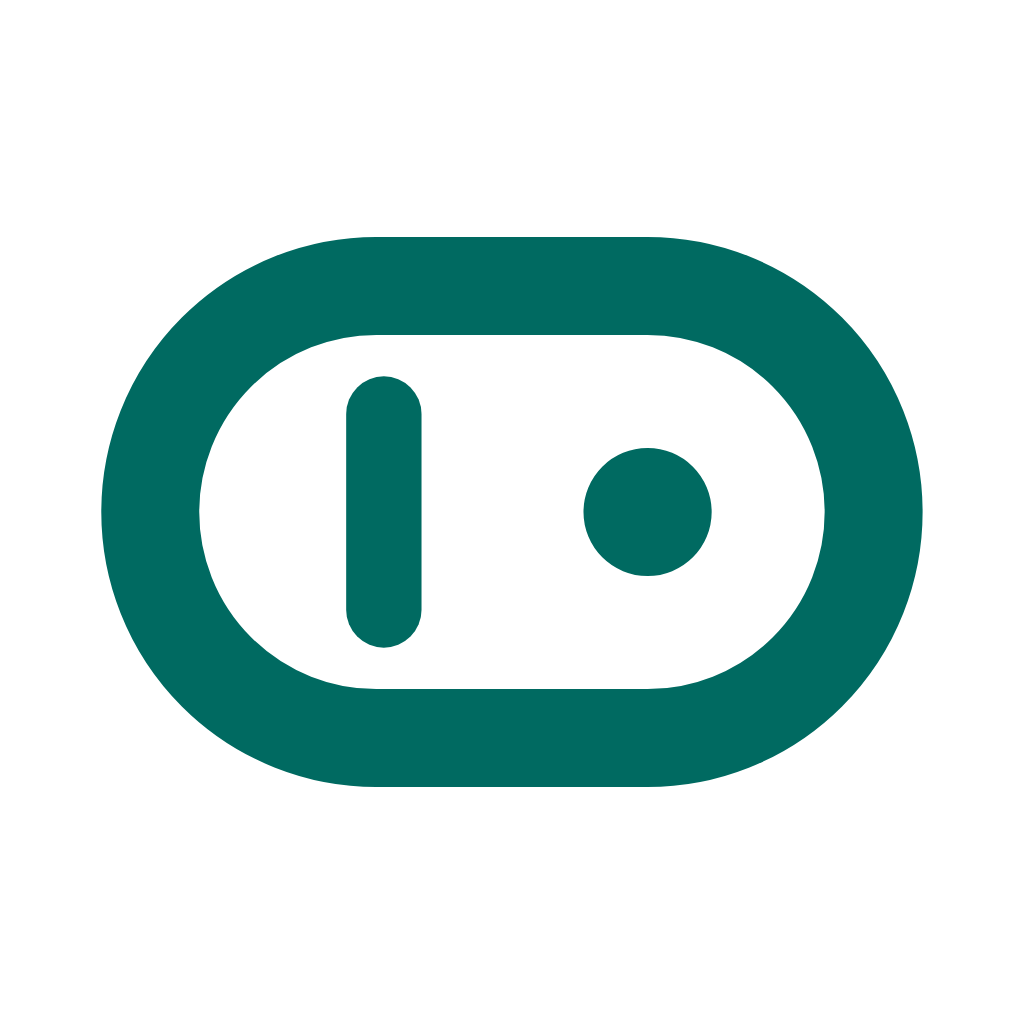
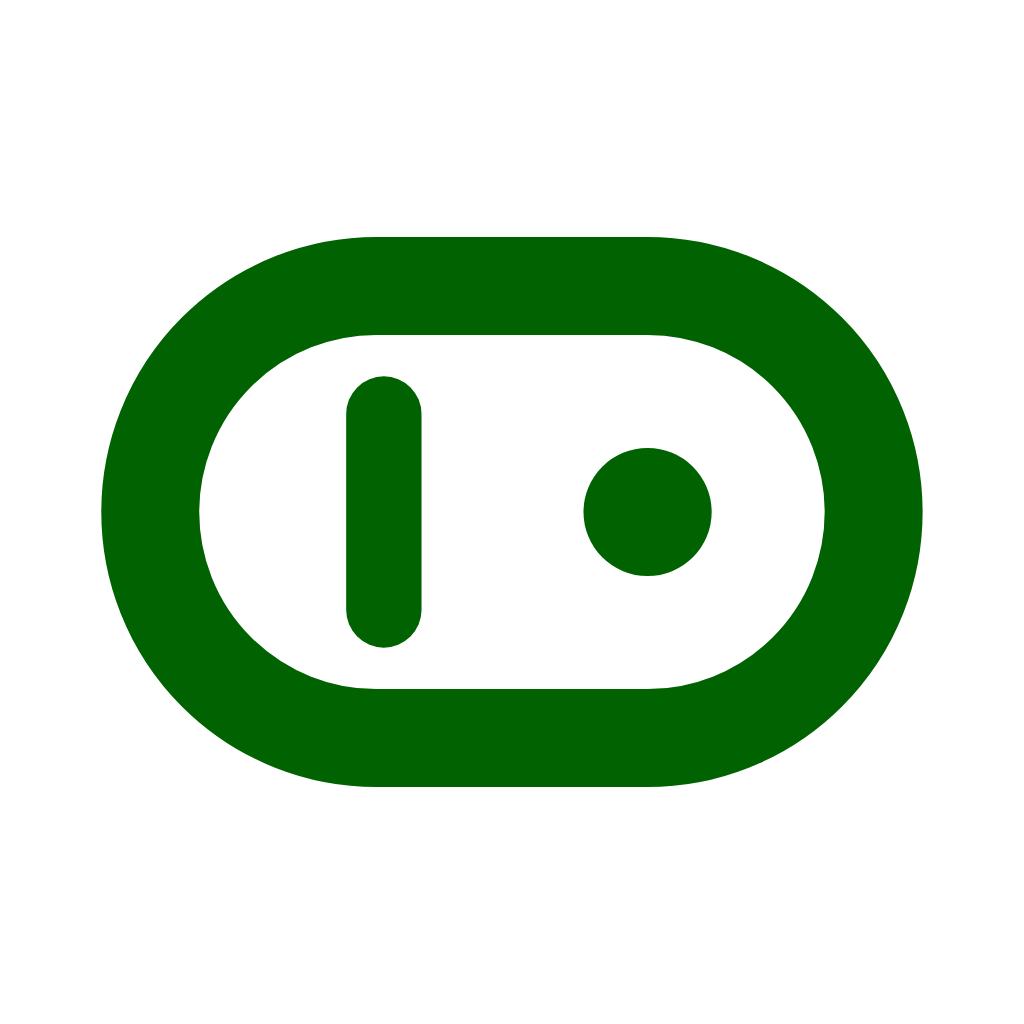
[qoder] OneBar 0.1.0: основной цвет #006200 и исправления брендовых экспортов
Перевёл палитру, виджет, иконку запуска и brand-материалы на #006200.
Сохранил teal-600 и монохромные варианты, дополнил отсутствующие PNG.
Убрал белые углы Play-иконки, привязал стартовое окно к палитре и убрал цветовой хардкод бейджей.

Проверки: testDebugUnitTest, assembleDebug, lintDebug — успешно.

Changed region(s): [[0.0938, 0.2188, 0.9062, 0.7812], [0.5625, 0.4375, 0.7188, 0.5625]]

diff --git a/app/src/main/kotlin/dev/onebar/app/ui/theme/Color.kt b/app/src/main/kotlin/dev/onebar/app/ui/theme/Color.kt
@@ -18,90 +18,96 @@ package dev.onebar.app.ui.theme
 
 import androidx.compose.ui.graphics.Color
 
-// Основная палитра OneBar: seed Tailwind teal-600 #0D9488, разложенный по ролям Material 3
-// (схема Tonal Spot, HCT). Значения подобраны не на глаз — они пересчитаны
-// @material/material-color-utilities: brand тон 40 даёт primary в светлой теме, тон 80 в
-// тёмной, нейтрали (chroma 6) и neutralVariant (chroma 14) подмешаны в surface и outline,
-// поэтому весь UI держит WCAG AA (primary/surface 6.18, текст 16.31, вторичный 8.87).
-// Правильно менять seed и пересчитывать роли целиком, а не отдельный цвет.
+// Основная палитра OneBar: seed Green #006200, разложенный по ролям Material 3
+// (схема Tonal Spot, HCT). Точный #006200 закреплён за primary светлой темы, inversePrimary
+// тёмной и фоном знака: у него HCT-тон ~35.47, а не стандартные 40. Остальные роли пересчитаны
+// @material/material-color-utilities из того же seed; нейтрали (chroma 6) и neutralVariant
+// (chroma 14) подмешаны в surface и outline. Менять seed и пересчитывать роли целиком.
 
 // Светлая тема
 
-val primaryLight = Color(0xFF006A61)
+val primaryLight = Color(0xFF006200)
 val onPrimaryLight = Color(0xFFFFFFFF)
-val primaryContainerLight = Color(0xFF9EF2E6)
-val onPrimaryContainerLight = Color(0xFF005049)
-val secondaryLight = Color(0xFF4A635F)
+val primaryContainerLight = Color(0xFFC0EFB0)
+val onPrimaryContainerLight = Color(0xFF285020)
+val secondaryLight = Color(0xFF54634D)
 val onSecondaryLight = Color(0xFFFFFFFF)
-val secondaryContainerLight = Color(0xFFCCE8E3)
-val onSecondaryContainerLight = Color(0xFF324B48)
-val tertiaryLight = Color(0xFF46617A)
+val secondaryContainerLight = Color(0xFFD7E8CD)
+val onSecondaryContainerLight = Color(0xFF3C4B37)
+val tertiaryLight = Color(0xFF386568)
 val onTertiaryLight = Color(0xFFFFFFFF)
-val tertiaryContainerLight = Color(0xFFCDE5FF)
-val onTertiaryContainerLight = Color(0xFF2E4961)
+val tertiaryContainerLight = Color(0xFFBCEBEE)
+val onTertiaryContainerLight = Color(0xFF1E4D50)
 val errorLight = Color(0xFFBA1A1A)
 val onErrorLight = Color(0xFFFFFFFF)
 val errorContainerLight = Color(0xFFFFDAD6)
 val onErrorContainerLight = Color(0xFF93000A)
-val backgroundLight = Color(0xFFF4FBF8)
-val onBackgroundLight = Color(0xFF161D1C)
-val surfaceLight = Color(0xFFF4FBF8)
-val onSurfaceLight = Color(0xFF161D1C)
-val surfaceVariantLight = Color(0xFFDAE5E2)
-val onSurfaceVariantLight = Color(0xFF3F4947)
-val outlineLight = Color(0xFF6F7977)
-val outlineVariantLight = Color(0xFFBEC9C6)
+val backgroundLight = Color(0xFFF8FBF1)
+val onBackgroundLight = Color(0xFF191D17)
+val surfaceLight = Color(0xFFF8FBF1)
+val onSurfaceLight = Color(0xFF191D17)
+val surfaceVariantLight = Color(0xFFDFE4D7)
+val onSurfaceVariantLight = Color(0xFF43483F)
+val outlineLight = Color(0xFF73796E)
+val outlineVariantLight = Color(0xFFC3C8BC)
 val scrimLight = Color(0xFF000000)
-val inverseSurfaceLight = Color(0xFF2B3230)
-val inverseOnSurfaceLight = Color(0xFFECF2F0)
-val inversePrimaryLight = Color(0xFF82D5CA)
-val surfaceDimLight = Color(0xFFD5DBD9)
-val surfaceBrightLight = Color(0xFFF4FBF8)
+val inverseSurfaceLight = Color(0xFF2E322B)
+val inverseOnSurfaceLight = Color(0xFFEFF2E8)
+val inversePrimaryLight = Color(0xFFA5D396)
+val surfaceDimLight = Color(0xFFD8DBD2)
+val surfaceBrightLight = Color(0xFFF8FBF1)
 val surfaceContainerLowestLight = Color(0xFFFFFFFF)
-val surfaceContainerLowLight = Color(0xFFEFF5F2)
-val surfaceContainerLight = Color(0xFFE9EFED)
-val surfaceContainerHighLight = Color(0xFFE3EAE7)
-val surfaceContainerHighestLight = Color(0xFFDDE4E1)
+val surfaceContainerLowLight = Color(0xFFF2F5EB)
+val surfaceContainerLight = Color(0xFFECEFE5)
+val surfaceContainerHighLight = Color(0xFFE6E9E0)
+val surfaceContainerHighestLight = Color(0xFFE1E4DA)
 
 // Тёмная тема
 
-val primaryDark = Color(0xFF82D5CA)
-val onPrimaryDark = Color(0xFF003732)
-val primaryContainerDark = Color(0xFF005049)
-val onPrimaryContainerDark = Color(0xFF9EF2E6)
-val secondaryDark = Color(0xFFB1CCC7)
-val onSecondaryDark = Color(0xFF1C3531)
-val secondaryContainerDark = Color(0xFF324B48)
-val onSecondaryContainerDark = Color(0xFFCCE8E3)
-val tertiaryDark = Color(0xFFAECAE6)
-val onTertiaryDark = Color(0xFF163349)
-val tertiaryContainerDark = Color(0xFF2E4961)
-val onTertiaryContainerDark = Color(0xFFCDE5FF)
+val primaryDark = Color(0xFFA5D396)
+val onPrimaryDark = Color(0xFF11380B)
+val primaryContainerDark = Color(0xFF285020)
+val onPrimaryContainerDark = Color(0xFFC0EFB0)
+val secondaryDark = Color(0xFFBBCBB2)
+val onSecondaryDark = Color(0xFF263422)
+val secondaryContainerDark = Color(0xFF3C4B37)
+val onSecondaryContainerDark = Color(0xFFD7E8CD)
+val tertiaryDark = Color(0xFFA0CFD2)
+val onTertiaryDark = Color(0xFF003739)
+val tertiaryContainerDark = Color(0xFF1E4D50)
+val onTertiaryContainerDark = Color(0xFFBCEBEE)
 val errorDark = Color(0xFFFFB4AB)
 val onErrorDark = Color(0xFF690005)
 val errorContainerDark = Color(0xFF93000A)
 val onErrorContainerDark = Color(0xFFFFDAD6)
-val backgroundDark = Color(0xFF0E1513)
-val onBackgroundDark = Color(0xFFDDE4E1)
-val surfaceDark = Color(0xFF0E1513)
-val onSurfaceDark = Color(0xFFDDE4E1)
-val surfaceVariantDark = Color(0xFF3F4947)
-val onSurfaceVariantDark = Color(0xFFBEC9C6)
-val outlineDark = Color(0xFF899390)
-val outlineVariantDark = Color(0xFF3F4947)
+val backgroundDark = Color(0xFF11140F)
+val onBackgroundDark = Color(0xFFE1E4DA)
+val surfaceDark = Color(0xFF11140F)
+val onSurfaceDark = Color(0xFFE1E4DA)
+val surfaceVariantDark = Color(0xFF43483F)
+val onSurfaceVariantDark = Color(0xFFC3C8BC)
+val outlineDark = Color(0xFF8D9387)
+val outlineVariantDark = Color(0xFF43483F)
 val scrimDark = Color(0xFF000000)
-val inverseSurfaceDark = Color(0xFFDDE4E1)
-val inverseOnSurfaceDark = Color(0xFF2B3230)
-val inversePrimaryDark = Color(0xFF006A61)
-val surfaceDimDark = Color(0xFF0E1513)
-val surfaceBrightDark = Color(0xFF343A39)
-val surfaceContainerLowestDark = Color(0xFF090F0E)
-val surfaceContainerLowDark = Color(0xFF161D1C)
-val surfaceContainerDark = Color(0xFF1A2120)
-val surfaceContainerHighDark = Color(0xFF252B2A)
-val surfaceContainerHighestDark = Color(0xFF303635)
+val inverseSurfaceDark = Color(0xFFE1E4DA)
+val inverseOnSurfaceDark = Color(0xFF2E322B)
+val inversePrimaryDark = Color(0xFF006200)
+val surfaceDimDark = Color(0xFF11140F)
+val surfaceBrightDark = Color(0xFF363A34)
+val surfaceContainerLowestDark = Color(0xFF0B0F0A)
+val surfaceContainerLowDark = Color(0xFF191D17)
+val surfaceContainerDark = Color(0xFF1D211B)
+val surfaceContainerHighDark = Color(0xFF272B25)
+val surfaceContainerHighestDark = Color(0xFF32362F)
 
-// Фирменный знак: тема иконку запуска не перекрашивает, фон всегда brand тон 40.
+// Фирменный знак: тема иконку запуска не перекрашивает, фон всегда точный brand #006200.
 
-val launcherBackground = Color(0xFF006A61)
+val launcherBackground = Color(0xFF006200)
 val launcherForeground = Color(0xFFFFFFFF)
+
+// Фирменные цвета поисковиков сохранены отдельно от палитры OneBar.
+
+val yandexBadgeBackground = Color(0xFFFC3F1D)
+val yandexBadgeContent = Color(0xFFFFFFFF)
+val googleBadgeBackground = Color(0xFFF1F3F4)
+val googleBadgeContent = Color(0xFF4285F4)

diff --git a/app/src/main/kotlin/dev/onebar/app/ui/Sections.kt b/app/src/main/kotlin/dev/onebar/app/ui/Sections.kt
@@ -32,7 +32,6 @@ import androidx.compose.runtime.setValue
 import androidx.compose.ui.Alignment
 import androidx.compose.ui.Modifier
 import androidx.compose.ui.draw.clip
-import androidx.compose.ui.graphics.Color
 import androidx.compose.ui.graphics.graphicsLayer
 import androidx.compose.ui.input.pointer.pointerInput
 import androidx.compose.ui.layout.onSizeChanged
@@ -43,6 +42,10 @@ import androidx.compose.ui.unit.dp
 import dev.onebar.app.R
 import dev.onebar.app.data.CommunicationKind
 import dev.onebar.app.data.ContactEntry
+import dev.onebar.app.ui.theme.googleBadgeBackground
+import dev.onebar.app.ui.theme.googleBadgeContent
+import dev.onebar.app.ui.theme.yandexBadgeBackground
+import dev.onebar.app.ui.theme.yandexBadgeContent
 
 @Composable
 fun ContactsSection(
@@ -309,16 +312,16 @@ private fun WebRow(
             )
             BrandBadge(
                 letter = "Я",
-                badgeBackground = Color(0xFFFC3F1D),
-                badgeContentColor = Color.White,
+                badgeBackground = yandexBadgeBackground,
+                badgeContentColor = yandexBadgeContent,
                 label = stringResource(R.string.search_yandex),
                 onClick = { onSearch(WebEngine.YANDEX) },
                 caption = if (labels) "Яндекс" else null,
             )
             BrandBadge(
                 letter = "G",
-                badgeBackground = Color(0xFFF1F3F4),
-                badgeContentColor = Color(0xFF4285F4),
+                badgeBackground = googleBadgeBackground,
+                badgeContentColor = googleBadgeContent,
                 label = stringResource(R.string.search_google),
                 onClick = { onSearch(WebEngine.GOOGLE) },
                 caption = if (labels) "Google" else null,

diff --git a/app/src/main/kotlin/dev/onebar/app/ui/theme/Theme.kt b/app/src/main/kotlin/dev/onebar/app/ui/theme/Theme.kt
@@ -103,7 +103,7 @@ private val DarkColorScheme: ColorScheme = darkColorScheme(
 )
 
 // dynamicColor выключен: фирменная палитра важнее обоев телефона, а с включённой динамической
-// темой seed teal-600 просто перекрывался бы системной схемой на Android 12+.
+// темой seed Green #006200 просто перекрывался бы системной схемой на Android 12+.
 @Composable
 fun OneBarTheme(
     darkTheme: Boolean = isSystemInDarkTheme(),
